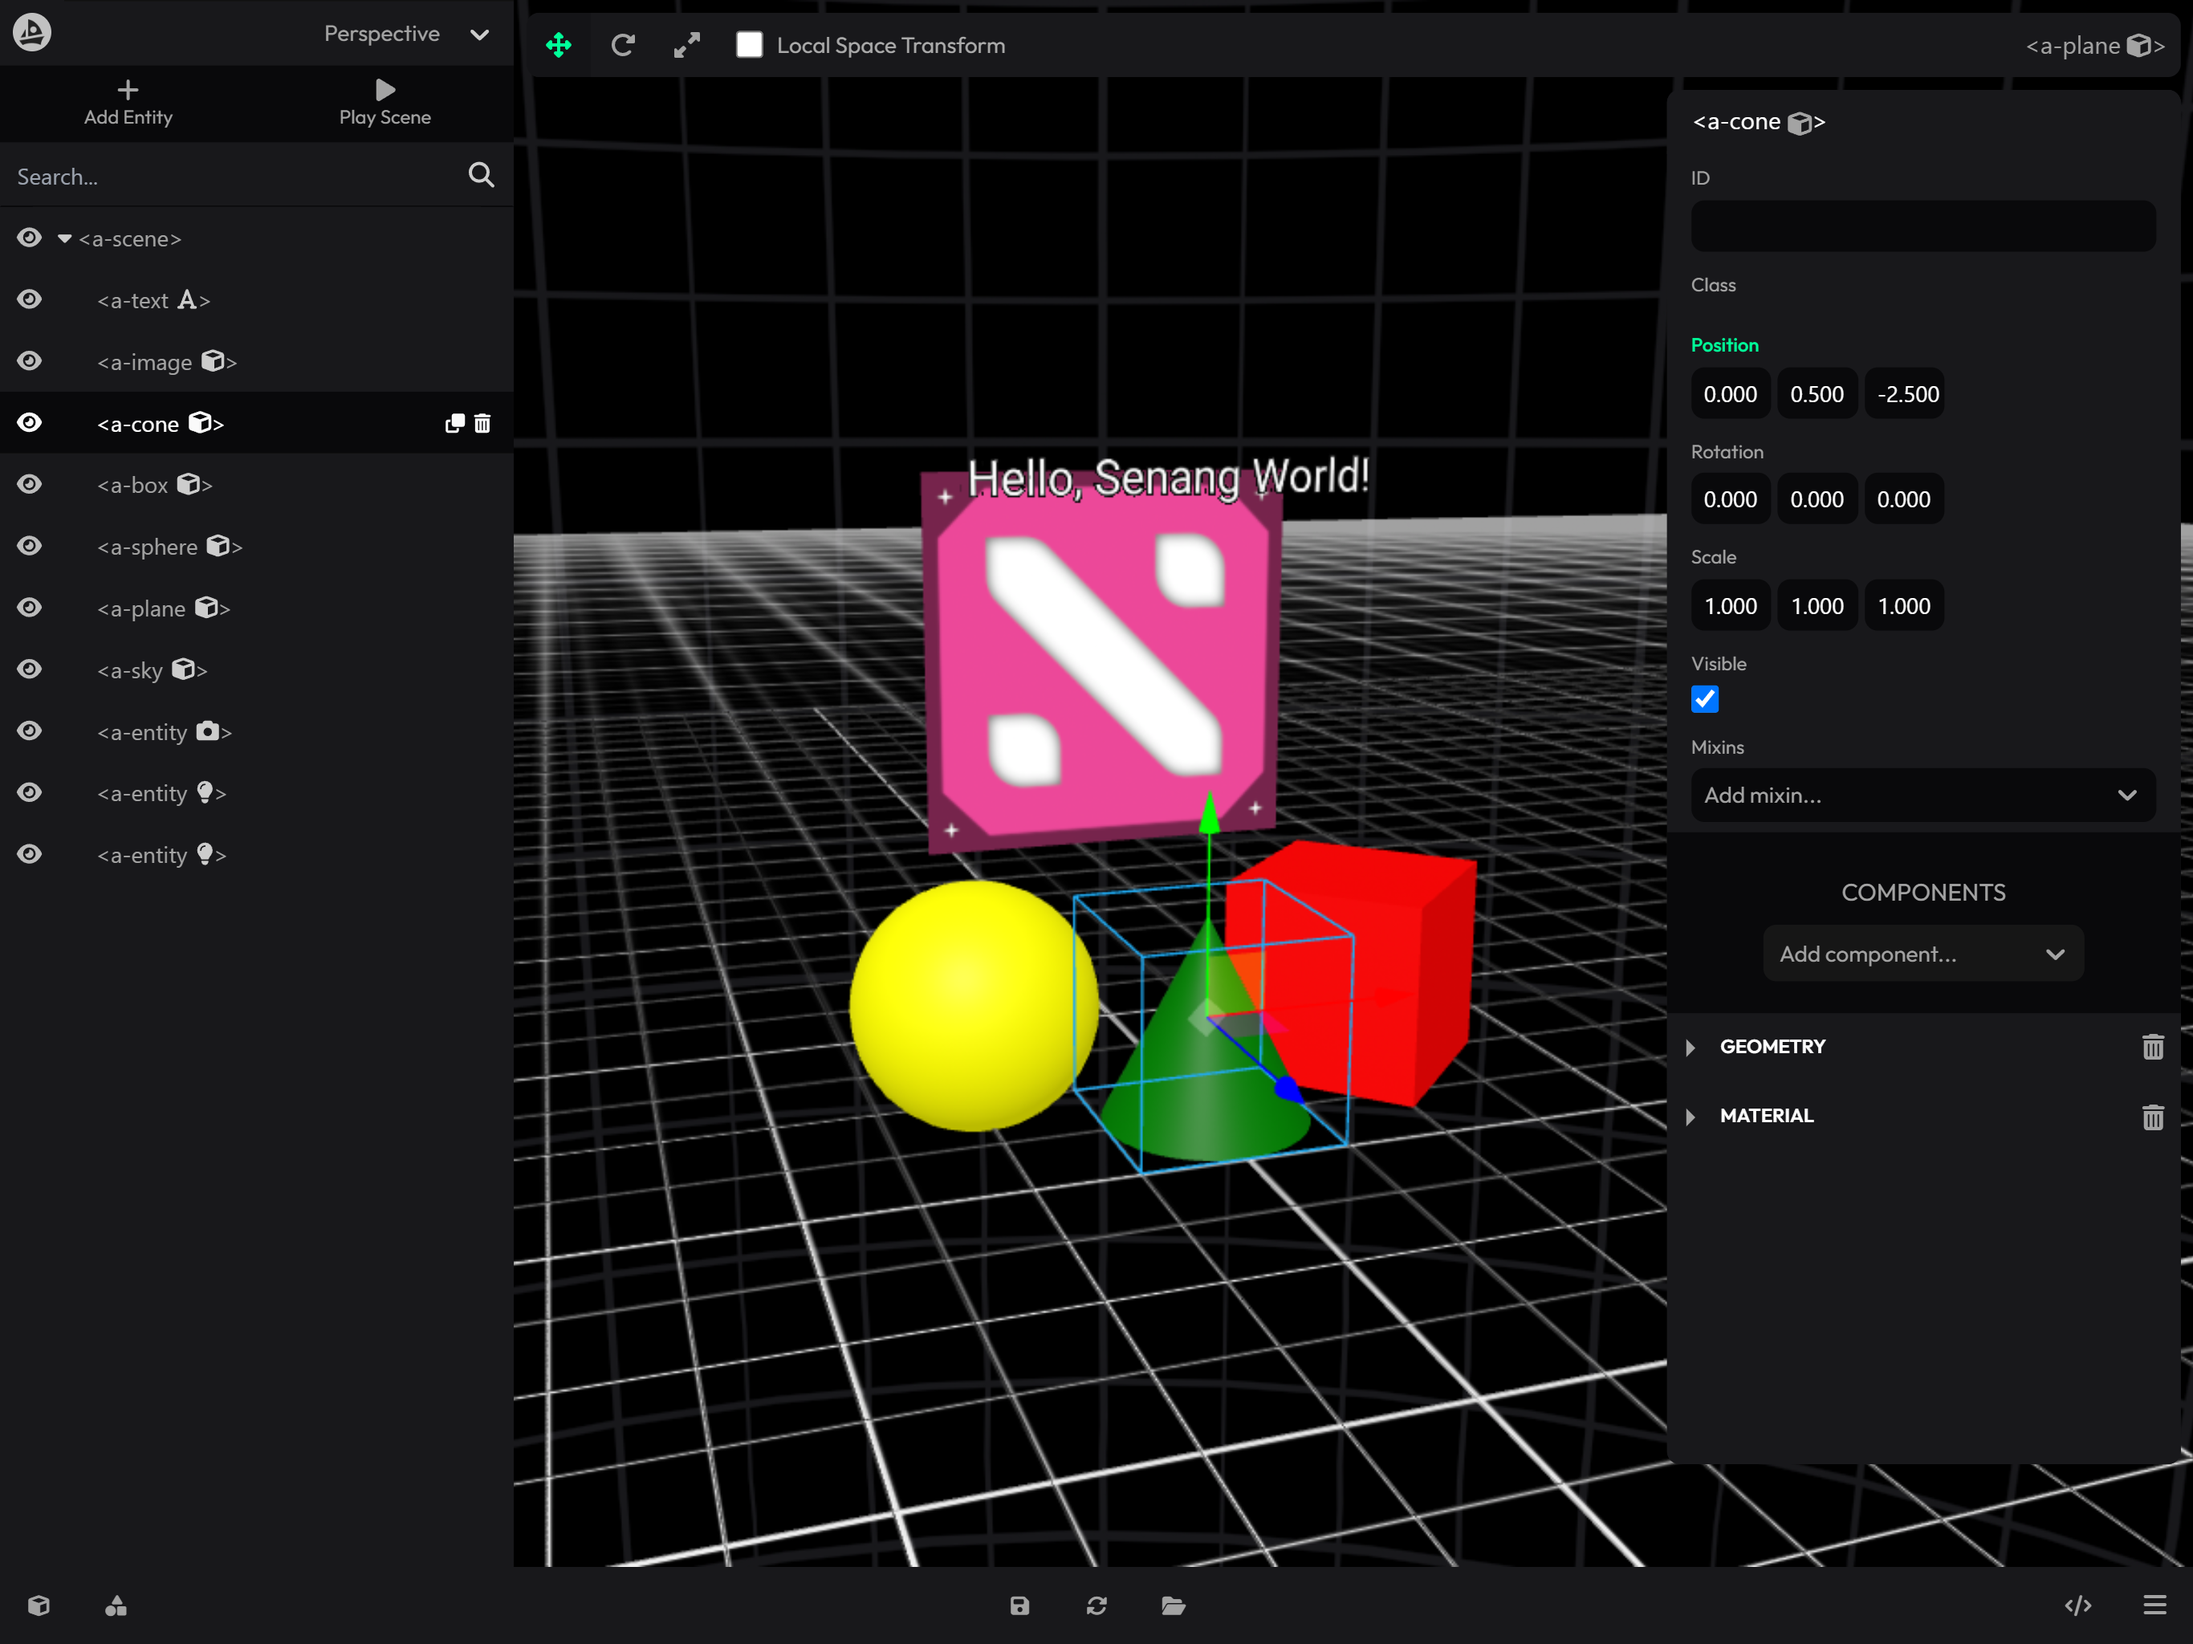
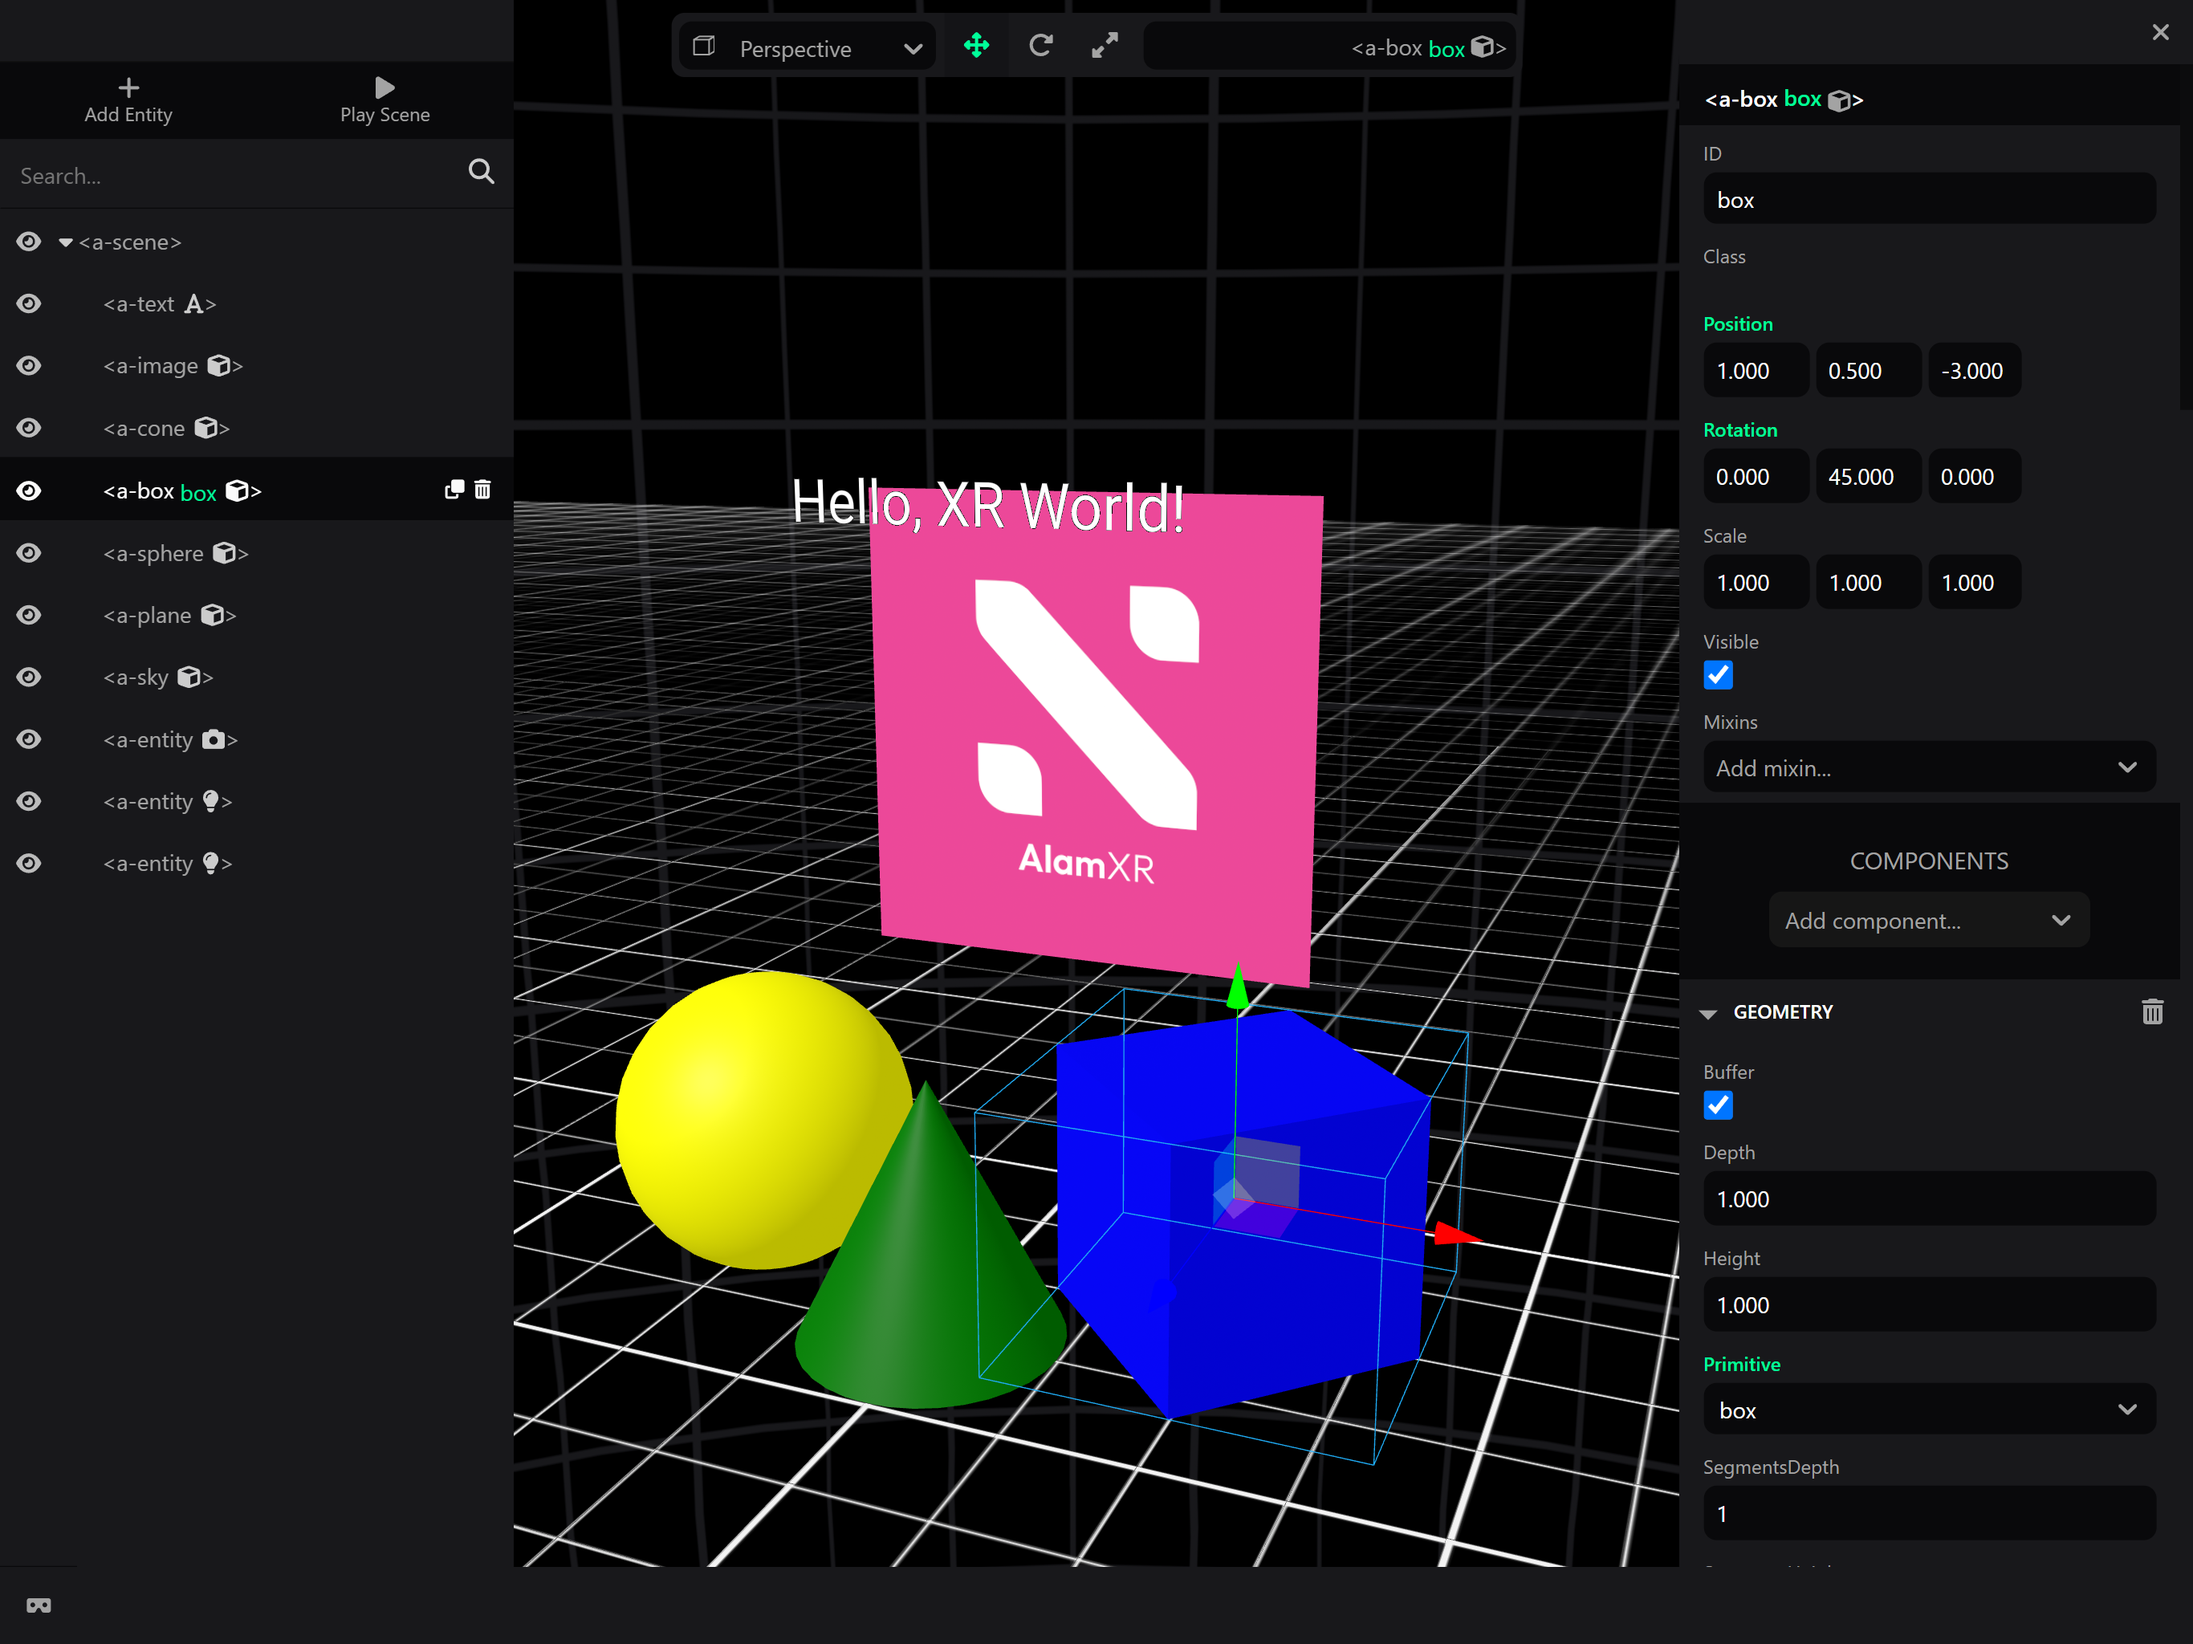
feat: add new example scene with various 3D entities and assets

diff --git a/examples/index.html b/examples/index.html
@@ -1,7 +1,7 @@
-<!DOCTYPE html>
+<!doctype html>
 <html>
   <head>
-    <meta charset="utf-8">
+    <meta charset="utf-8" />
     <title>Example Scene</title>
     <!--<script>window.AFRAME_SAMPLE_ASSETS_ROOT = "./sample-assets/";</script>-->
     <script src="https://cdn.jsdelivr.net/gh/aframevr/aframe@1.7.0/dist/aframe-master.min.js"></script>
@@ -9,56 +9,61 @@
   </head>
   <body>
     <a-scene debug="true">
-      <a-assets>
-        <a-mixin id="blue" material="color: #4CC3D9"></a-mixin>
-        <a-mixin id="blueBox" geometry="primitive: box; depth: 2; height: 5; width: 1" material="color: #4CC3D9"></a-mixin>
-        <a-mixin id="box" geometry="primitive: box; depth: 1; height: 1; width: 1"></a-mixin>
-        <a-mixin id="cylinder" geometry="primitive: cylinder; height: 0.3; radius: 0.75; segmentsRadial: 6"></a-mixin>
-        <a-mixin id="green" material="color: #7BC8A4"></a-mixin>
-        <a-mixin id="orange" material="color: #F16745"></a-mixin>
-        <a-mixin id="purple" material="color: #93648D"></a-mixin>
-        <a-mixin id="short" scale="1 0.5 1"></a-mixin>
-        <a-mixin id="yellow" material="color: #FFC65D"></a-mixin>
-        <img id="crateImg" src="https://aframe.io/sample-assets/assets/images/wood/crate.gif" crossOrigin="true">
-        <img id="floorImg" src="https://aframe.io/sample-assets/assets/images/terrain/grasslight-big.jpg" crossOrigin="true">
-      </a-assets>
-
-      <a-entity id="environment" environment="preset: forest; fog: 0"></a-entity>
-
-      <!-- Meshes. -->
-      <a-entity id="blueBox" mixin="blueBox" position="0 8 0"></a-entity>
-      <a-entity id="shortOrangeBox" mixin="short orange box" position="-5 2 0"></a-entity>
-      <a-entity id="shortYellowBox" mixin="short yellow box" position="5 2 0"></a-entity>
-      <a-entity id="redBox" geometry="primitive: box" material="color:#f00" position="-4 1 0" animation="property: object3D.rotation.y; to: 360; loop: true; easing: linear; dur: 9600"></a-entity>
-      <a-entity id="yellowSphere" geometry="primitive: sphere" material="color:#ff0; metalness:0.0; roughness:1.0" position="-2 2 -2"></a-entity>
-      <a-box src="https://aframe.io/sample-assets/assets/images/bricks/brick_bump.jpg" position="-5 5 -2" width="1" color="#F16745"></a-box>
-      <a-box id="box" position="0 2 0" height="2" color="#FFC65D"></a-box>
-
-      <!-- Models. -->
-      <a-entity class="boxClass" geometry="primitive: box" material="src: #crateImg" position="3 4 0"></a-entity>
-      <a-entity class="boxClass" geometry="primitive: box" material="color: #0f0" position="4 2 4"></a-entity>
-
-      <!-- Floor. -->
-      <a-entity id="floor" geometry="primitive: box; height: .2; depth: 24; width: 24"
-                material="src: #floorImg; color: #fafafa; metalness: .1; repeat: 50 20; roughness: 1"></a-entity>
-
-      <!-- Lights. -->
-      <a-entity id="pointLight" light="type: point; intensity: 0.25" position="0 3 3"></a-entity>
-
-      <!-- Camera. -->
-      <a-entity id="cameraWrapper" position="0 1.6 8">
-        <a-entity id="camera" camera look-controls wasd-controls>
-          <!-- Cursor. -->
-          <a-entity id="cursor" position="0 0 -2"
-                    geometry="primitive: ring; radiusOuter: 0.016; radiusInner: 0.01"
-                    material="color: #ff9; shader: flat; transparent: true; opacity: 0.5"
-                    scale="2 2 2" raycaster>
-          </a-entity>
-        </a-entity>
-      </a-entity>
-
-      <a-entity id="leftHand" laser-controls="hand: left"></a-entity>
-      <a-entity id="rightHand" laser-controls="hand: right"></a-entity>
+      <a-text
+        position="0 3 -3"
+        value="Hello, XR World!"
+        align="center"
+        text=""
+      ></a-text>
+      <a-image
+        width="2"
+        height="2"
+        position="0 2 -4"
+        src="https://cdn.glitch.global/a9a8a483-3c49-449a-89e6-870645a2773a/product-logo.png?v=1729405883005"
+        material=""
+        geometry=""
+      ></a-image>
+      <a-cone
+        position="0 .5 -2.5"
+        color="green"
+        radius-bottom=".5"
+        radius-top="0"
+        material=""
+        geometry=""
+      ></a-cone>
+      <a-box
+        position="1 .5 -3"
+        rotation="0 45 0"
+        color="blue"
+        material=""
+        geometry=""
+      ></a-box>
+      <a-sphere
+        position="-1 .5 -3"
+        color="yellow"
+        radius=".6"
+        material=""
+        geometry=""
+      ></a-sphere>
+      <a-plane
+        position="0 0 0"
+        rotation="-90 0 0"
+        width="100"
+        height="100"
+        repeat="50 50"
+        transparent="true"
+        src="https://cdn.glitch.global/a9a8a483-3c49-449a-89e6-870645a2773a/wireframe.png?v=1725555289564"
+        material=""
+        geometry=""
+      ></a-plane>
+      <a-sky
+        color="#18181B"
+        repeat="20 10"
+        src="https://cdn.glitch.global/a9a8a483-3c49-449a-89e6-870645a2773a/wireframe.png?v=1725555289564"
+        material=""
+        geometry=""
+        scale=""
+      ></a-sky>
     </a-scene>
 
     <script src="../dist/aframe-inspector.js"></script>

diff --git a/examples/index-aframe.html b/examples/index-aframe.html
@@ -1,0 +1,66 @@
+<!DOCTYPE html>
+<html>
+  <head>
+    <meta charset="utf-8">
+    <title>Example Scene</title>
+    <!--<script>window.AFRAME_SAMPLE_ASSETS_ROOT = "./sample-assets/";</script>-->
+    <script src="https://cdn.jsdelivr.net/gh/aframevr/aframe@1.7.0/dist/aframe-master.min.js"></script>
+    <script src="https://unpkg.com/aframe-environment-component@1.3.7/dist/aframe-environment-component.min.js"></script>
+  </head>
+  <body>
+    <a-scene debug="true">
+      <a-assets>
+        <a-mixin id="blue" material="color: #4CC3D9"></a-mixin>
+        <a-mixin id="blueBox" geometry="primitive: box; depth: 2; height: 5; width: 1" material="color: #4CC3D9"></a-mixin>
+        <a-mixin id="box" geometry="primitive: box; depth: 1; height: 1; width: 1"></a-mixin>
+        <a-mixin id="cylinder" geometry="primitive: cylinder; height: 0.3; radius: 0.75; segmentsRadial: 6"></a-mixin>
+        <a-mixin id="green" material="color: #7BC8A4"></a-mixin>
+        <a-mixin id="orange" material="color: #F16745"></a-mixin>
+        <a-mixin id="purple" material="color: #93648D"></a-mixin>
+        <a-mixin id="short" scale="1 0.5 1"></a-mixin>
+        <a-mixin id="yellow" material="color: #FFC65D"></a-mixin>
+        <img id="crateImg" src="https://aframe.io/sample-assets/assets/images/wood/crate.gif" crossOrigin="true">
+        <img id="floorImg" src="https://aframe.io/sample-assets/assets/images/terrain/grasslight-big.jpg" crossOrigin="true">
+      </a-assets>
+
+      <a-entity id="environment" environment="preset: forest; fog: 0"></a-entity>
+
+      <!-- Meshes. -->
+      <a-entity id="blueBox" mixin="blueBox" position="0 8 0"></a-entity>
+      <a-entity id="shortOrangeBox" mixin="short orange box" position="-5 2 0"></a-entity>
+      <a-entity id="shortYellowBox" mixin="short yellow box" position="5 2 0"></a-entity>
+      <a-entity id="redBox" geometry="primitive: box" material="color:#f00" position="-4 1 0" animation="property: object3D.rotation.y; to: 360; loop: true; easing: linear; dur: 9600"></a-entity>
+      <a-entity id="yellowSphere" geometry="primitive: sphere" material="color:#ff0; metalness:0.0; roughness:1.0" position="-2 2 -2"></a-entity>
+      <a-box src="https://aframe.io/sample-assets/assets/images/bricks/brick_bump.jpg" position="-5 5 -2" width="1" color="#F16745"></a-box>
+      <a-box id="box" position="0 2 0" height="2" color="#FFC65D"></a-box>
+
+      <!-- Models. -->
+      <a-entity class="boxClass" geometry="primitive: box" material="src: #crateImg" position="3 4 0"></a-entity>
+      <a-entity class="boxClass" geometry="primitive: box" material="color: #0f0" position="4 2 4"></a-entity>
+
+      <!-- Floor. -->
+      <a-entity id="floor" geometry="primitive: box; height: .2; depth: 24; width: 24"
+                material="src: #floorImg; color: #fafafa; metalness: .1; repeat: 50 20; roughness: 1"></a-entity>
+
+      <!-- Lights. -->
+      <a-entity id="pointLight" light="type: point; intensity: 0.25" position="0 3 3"></a-entity>
+
+      <!-- Camera. -->
+      <a-entity id="cameraWrapper" position="0 1.6 8">
+        <a-entity id="camera" camera look-controls wasd-controls>
+          <!-- Cursor. -->
+          <a-entity id="cursor" position="0 0 -2"
+                    geometry="primitive: ring; radiusOuter: 0.016; radiusInner: 0.01"
+                    material="color: #ff9; shader: flat; transparent: true; opacity: 0.5"
+                    scale="2 2 2" raycaster>
+          </a-entity>
+        </a-entity>
+      </a-entity>
+
+      <a-entity id="leftHand" laser-controls="hand: left"></a-entity>
+      <a-entity id="rightHand" laser-controls="hand: right"></a-entity>
+    </a-scene>
+
+    <script src="../dist/aframe-inspector.js"></script>
+  </body>
+</html>
